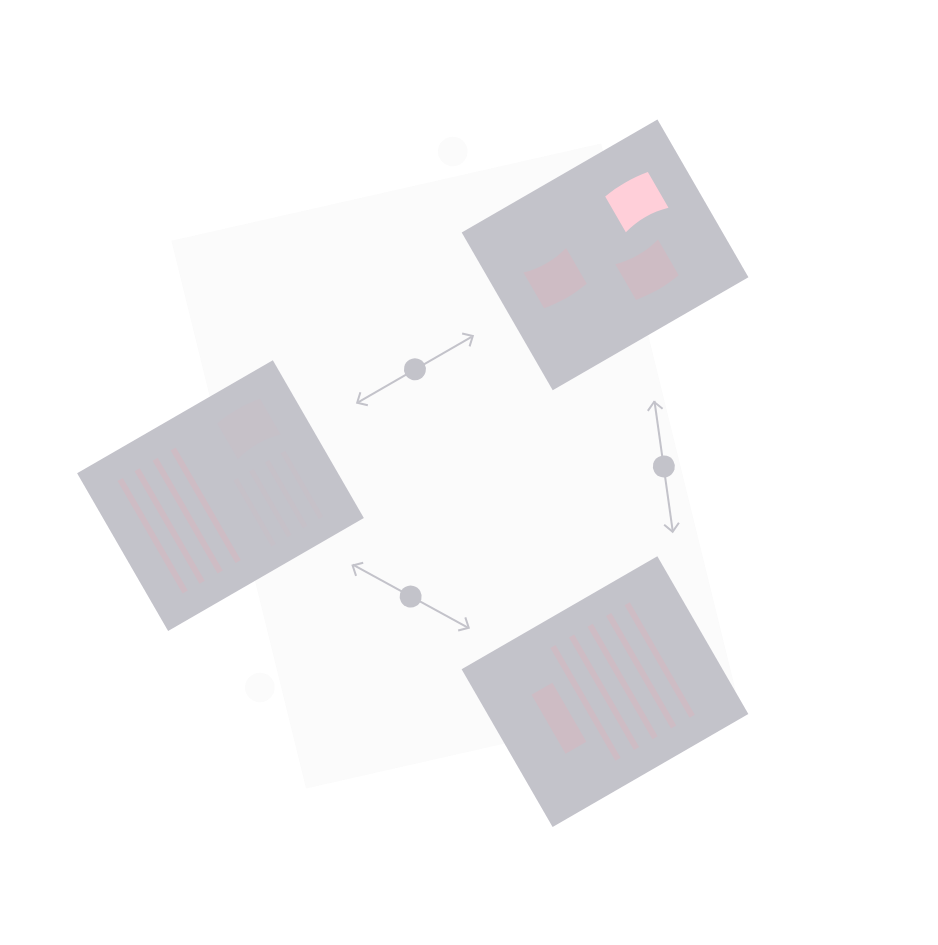
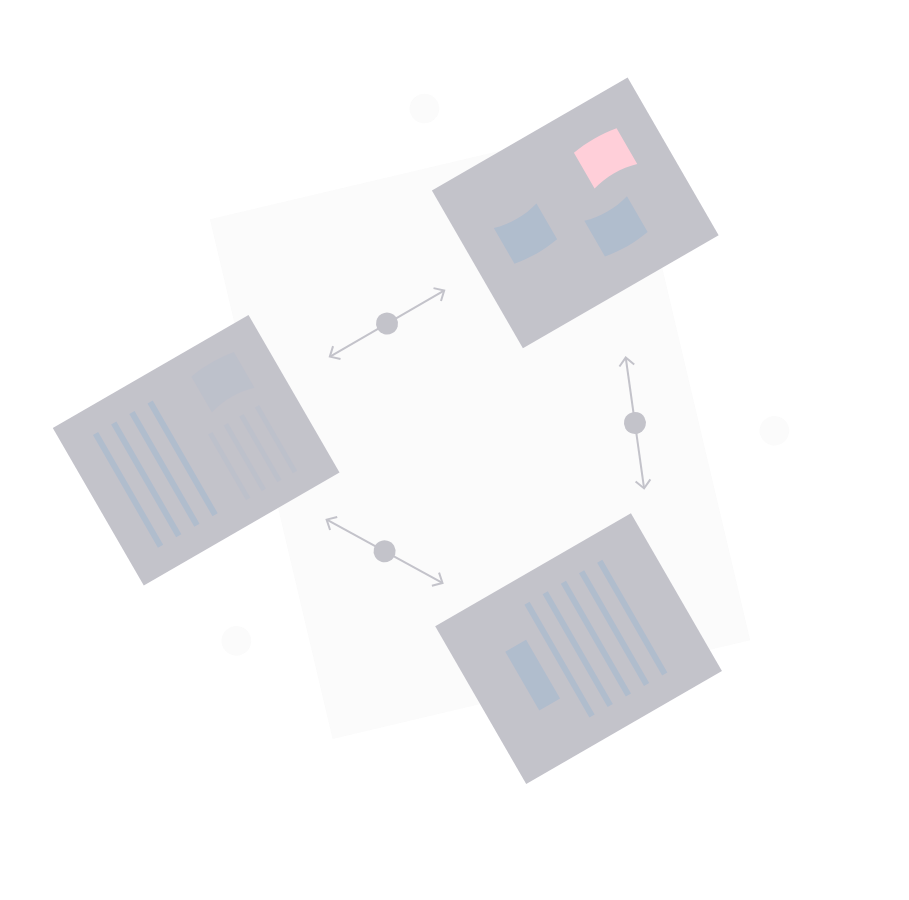
changed the colors

diff --git a/index.html b/index.html
@@ -81,7 +81,7 @@
         <div class="container" style="padding: 0">
             <a href="#sec_home">
                 <img id="navbar-logo" class="navbar-brand"
-                    src="assets/img/logo-dark.png"
+                    src="assets/img/logo-blue-dark.png"
                     alt="website logo" width="50px" />
             </a>
             
@@ -131,7 +131,7 @@
         <div class="container-fluid">
             <div class="row">
                 <div class="col-md-5" style="margin-top: 175px">
-                    <img src="assets/img/tcentral_logo.png" style="max-width: 100%;" alt="TCentral Logo;" >
+                    <img src="assets/img/tcentral-blue-logo.png" style="max-width: 100%;" alt="TCentral Logo;" >
                     <p style="padding-top: 20px; text-align: center; font-size: 55px; color: grey">Plan it! Make it! Work it!</p>
                 </div>
                 <div class="col-md-5" style="margin-left: -300px; z-index: -1;">
@@ -175,7 +175,7 @@
             <div class="row">
                 <!-- Image or animation -->
                 <div class="col-md-6 center-vh">
-                    <img src="assets/img/benefits.png" alt="" style="height: 400px; margin-left: -200px">
+                    <img src="assets/img/benefits_img.png" alt="" style="height: 400px; margin-left: -200px">
                 </div>
                 <!-- List of benefits -->
                 <div class="col-md-6" style="margin-top: auto; margin-bottom: auto; padding: 2em">
@@ -203,7 +203,7 @@
                 </p>
             </div>
             <div class="center-vh" style=" margin-bottom: 2em">
-                <img src="assets/img/WorkPlan.png"
+                <img src="assets/img/workplan.png"
                     alt="" style="height: 400px">
             </div>
             <div class="row justify-content-center">
@@ -347,12 +347,9 @@
     </section>
 
 
-    <img class="process-img" src="assets/img/undraw_process_e90d.png" style="position: absolute; width: 40%;margin-top: -100px;left: -59px;"/>
-    
-    
-    
-    
     <!-- Timeline section -->
+    <img class="process-img" src="assets/img/undraw_process_e90d.png"/>
+    
     <!-- From https://codepen.io/itbruno/pen/KwarLp -->
     <section id="sec_timeline">
         <div class="container">

diff --git a/assets/js/main.js b/assets/js/main.js
@@ -49,12 +49,12 @@ $(document).ready(function() {
     if ($(this).scrollTop() > 50) {
       $(".navbar").addClass("navbar-scrolled");
       $(".nav-link").addClass("nav-link-scrolled");
-      $("#navbar-logo").attr("src", "assets/img/logo-light.png");
+      $("#navbar-logo").attr("src", "assets/img/logo-blue-light.png");
       // newImageUrl = "assets/img/logo-light.png";
     } else {
       $(".navbar").removeClass("navbar-scrolled");
       $(".nav-link").removeClass("nav-link-scrolled");
-      $("#navbar-logo").attr("src", "assets/img/logo-dark.png");
+      $("#navbar-logo").attr("src", "assets/img/logo-blue-dark.png");
       // newImageUrl = "assets/img/logo-dark.png";
     }
   });

diff --git a/assets/css/style.css b/assets/css/style.css
@@ -115,7 +115,7 @@ div.center-vh {
 /* Why CSS ends here */
 .spreadsheet-img {
   width: 35%;
-  height: 45%;
+  /* height: 45%; */
   position: absolute;
   margin-top: -200px;
   right: 20px;
@@ -186,6 +186,16 @@ div.center-vh {
   padding: 20px;
 }
 /* Architecture CSS ends here */
+
+/* CSS for image in timeline starts here */
+.process-img {
+  position: absolute;
+  width: 40%;
+  /* margin-top: -100px; */
+  /* top: 100px; */
+  left: 20px;
+}
+/* CSS for image in timeline ends here */
 
 /* Team CSS starts here */
 #sec_team {
